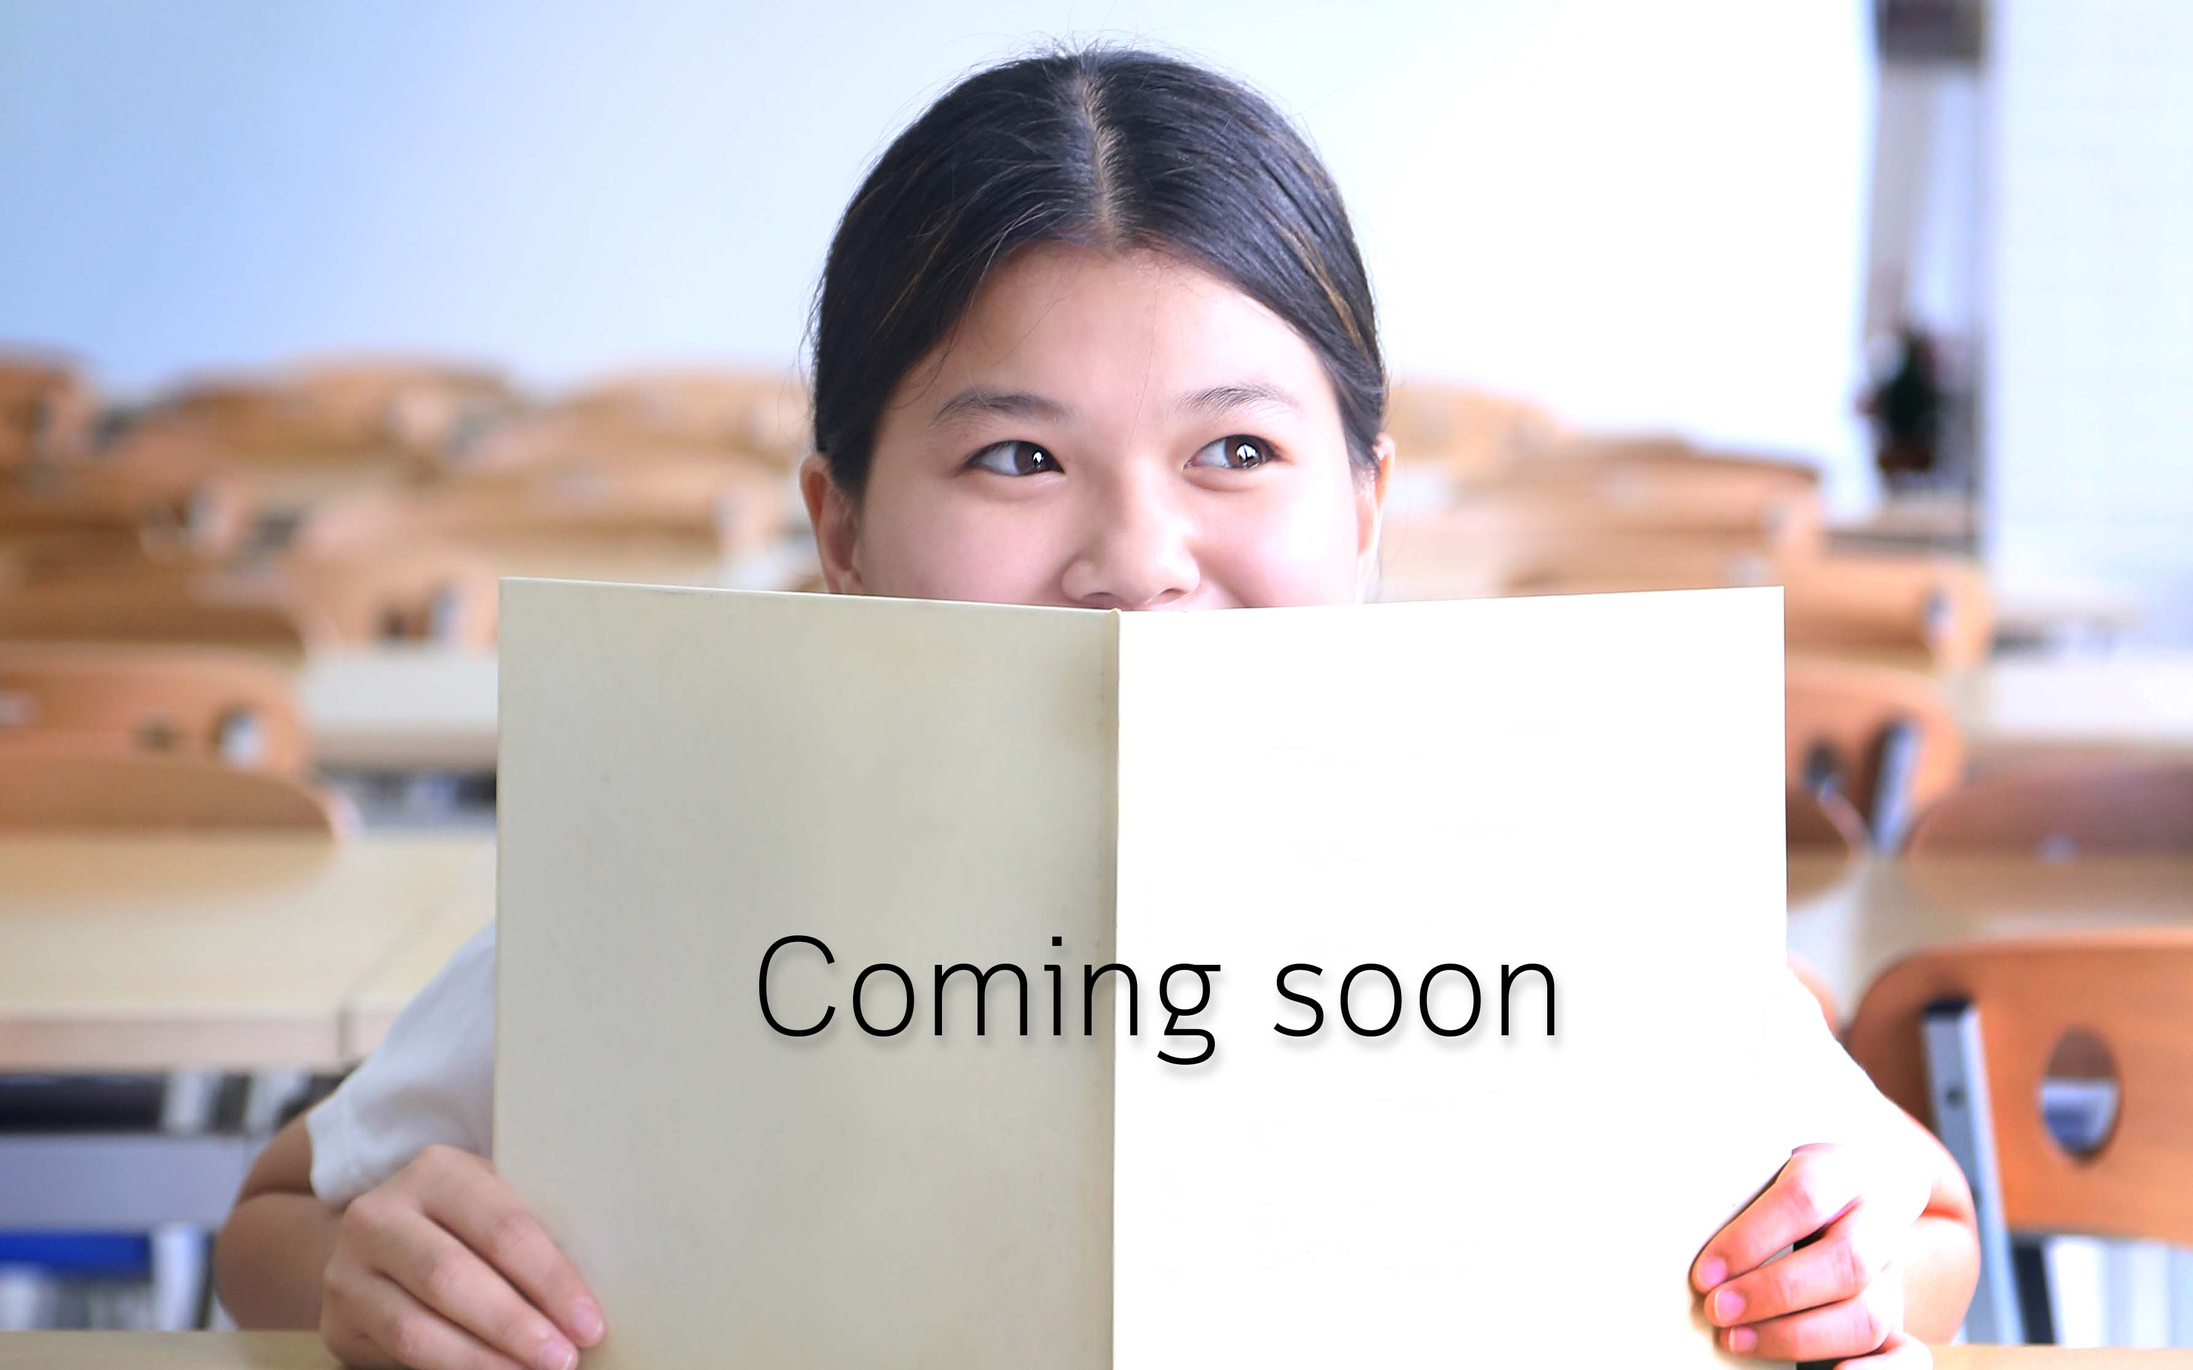
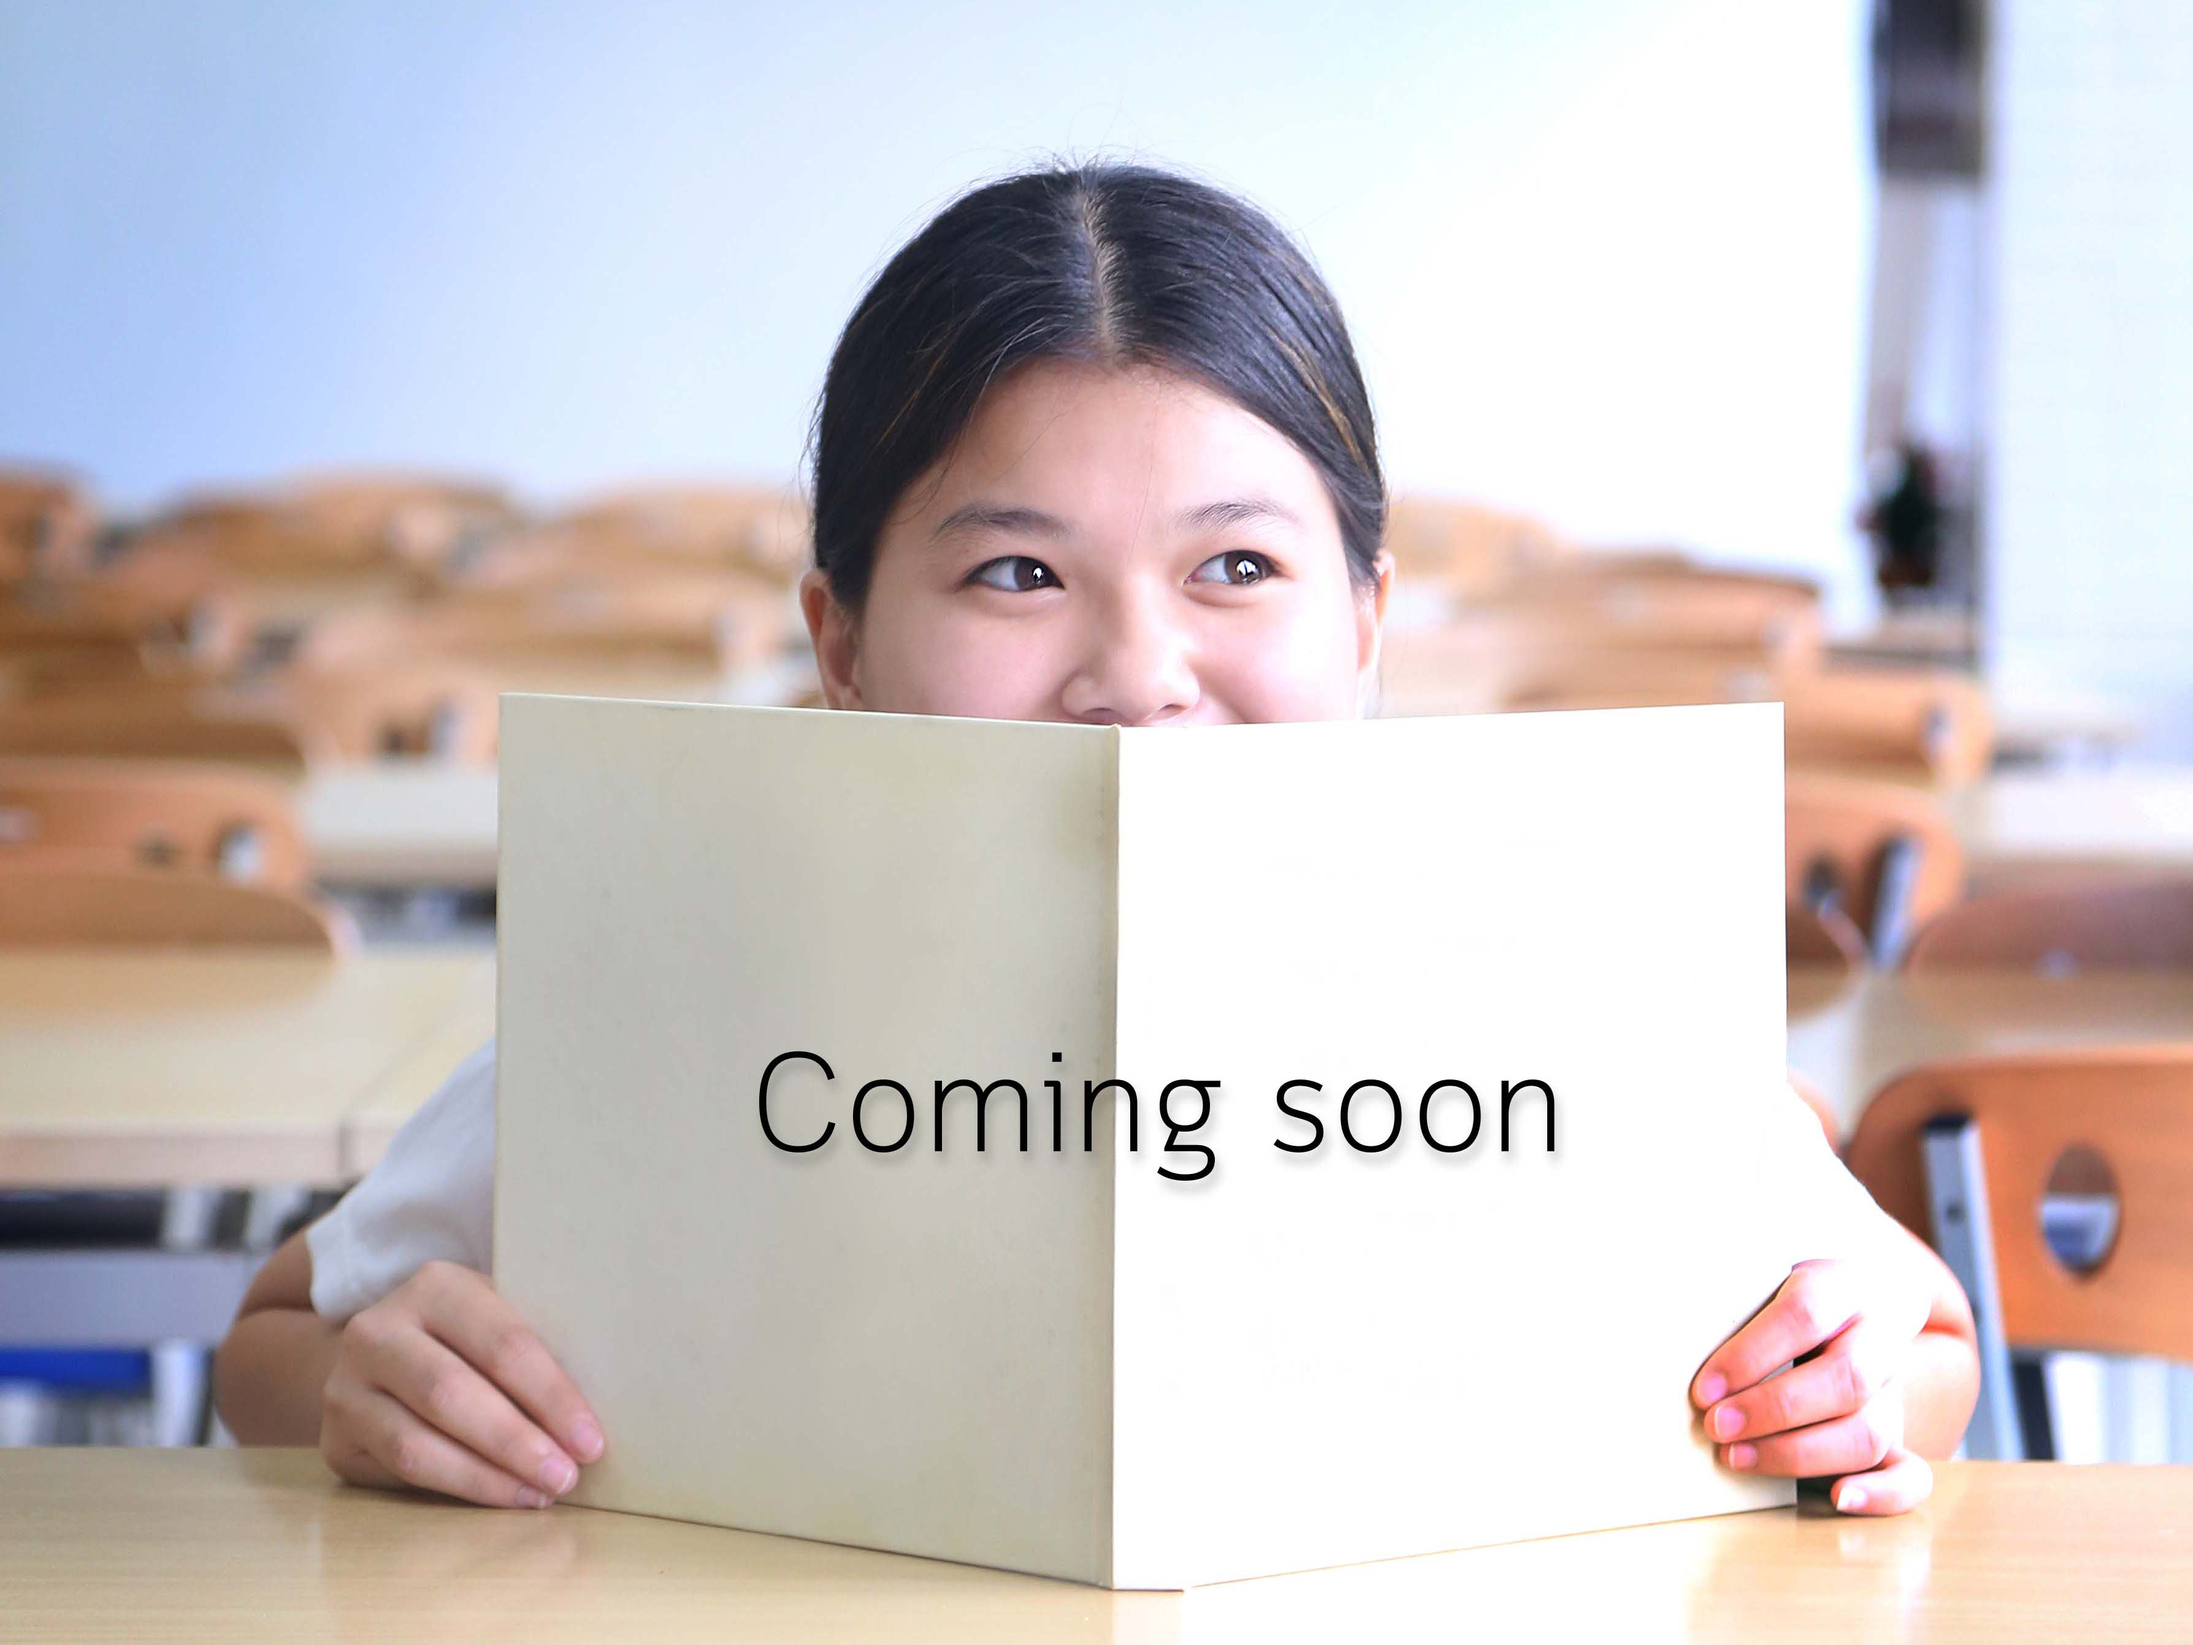
fix wrong size on mobile

diff --git a/public/assets/css/main.css b/public/assets/css/main.css
@@ -8,31 +8,13 @@
     font-weight: bold;
     src: url('../fonts/Cloud-Bold.otf');
 }
-.cum {
-    position: absolute;
-    width: 100%;
-    text-align: center;
-    bottom: 30%;
-}
-.soon {
-    background-image: url("../image/soon1.jpg");
-    background-size: cover;
-    background-position: center center;
-    background-attachment: fixed;
-    display: -webkit-box;
-    display: -ms-flexbox;
-    display: flex;
-    min-height: 100vh;
-    -webkit-box-orient: vertical;
-    -webkit-box-direction: normal;
-    -ms-flex-direction: column;
-    flex-direction: column;
-}
 #fuckios {
-    display:none;justify-content:center;align-items:center;width:100%;height:100%;
+    position: absolute;
+    width:100%;height:100%;
+    overflow: hidden;
 }
 #fuckios img {
-    width:100%;
+    width: 100%;
 }
 .regis-body {
     background-image: url("../image/poster_hor.jpg");

diff --git a/resources/views/soon.blade.php b/resources/views/soon.blade.php
@@ -110,34 +110,24 @@
 </nav>
 
 <div id="fuckios">
-    <img src="{{URL::asset('assets/image/soon.jpg')}}" alt="">
+    <img src="{{URL::asset('assets/image/soon.jpg')}}" alt="" id="fuckimg">
 </div>
-
-<div class="main" style="margin-bottom: 0">
-</div>
-
-<footer>
-    <div class="container footer shadow --invert">
-        <div class="credit-container">
-            <span>Faculty of Information Technology at KMITL © 2016</span>
-            <span class="pull-right">
-                Open House 2011 | 2012 | 2013 | 2014 | 2016 Developers
-                <a href="#" class="back-to-top">
-                    <i class="fa fa-chevron-up"></i>
-                </a>
-            </span>
-        </div>
-    </div>
-</footer>
-
 <script src="https://ajax.googleapis.com/ajax/libs/jquery/1.11.3/jquery.min.js"></script>
 <script src="{{URL::asset('assets/js/bootstrap.min.js')}}"></script>
 
 <script>
+    $(document).ready(function () {
+        if ($(window).height() > $(window).width()) {
+            $("#fuckimg").attr("src", "{{URL::asset('assets/image/soon.jpg')}}");
+        } else {
+            $("#fuckimg").attr("src", "{{URL::asset('assets/image/soon1.jpg')}}");
+        }
+    });
     $(window).on('resize', function() {
         if ($(window).height() > $(window).width()) {
-            $("#fuckios").attr('style', 'display: -webkit-flex; display: flex');
-            document.body.style.backgroundImage = "none";
+            $("#fuckimg").attr("src", "{{URL::asset('assets/image/soon.jpg')}}");
+        } else {
+            $("#fuckimg").attr("src", "{{URL::asset('assets/image/soon1.jpg')}}");
         }
     });
 </script>
